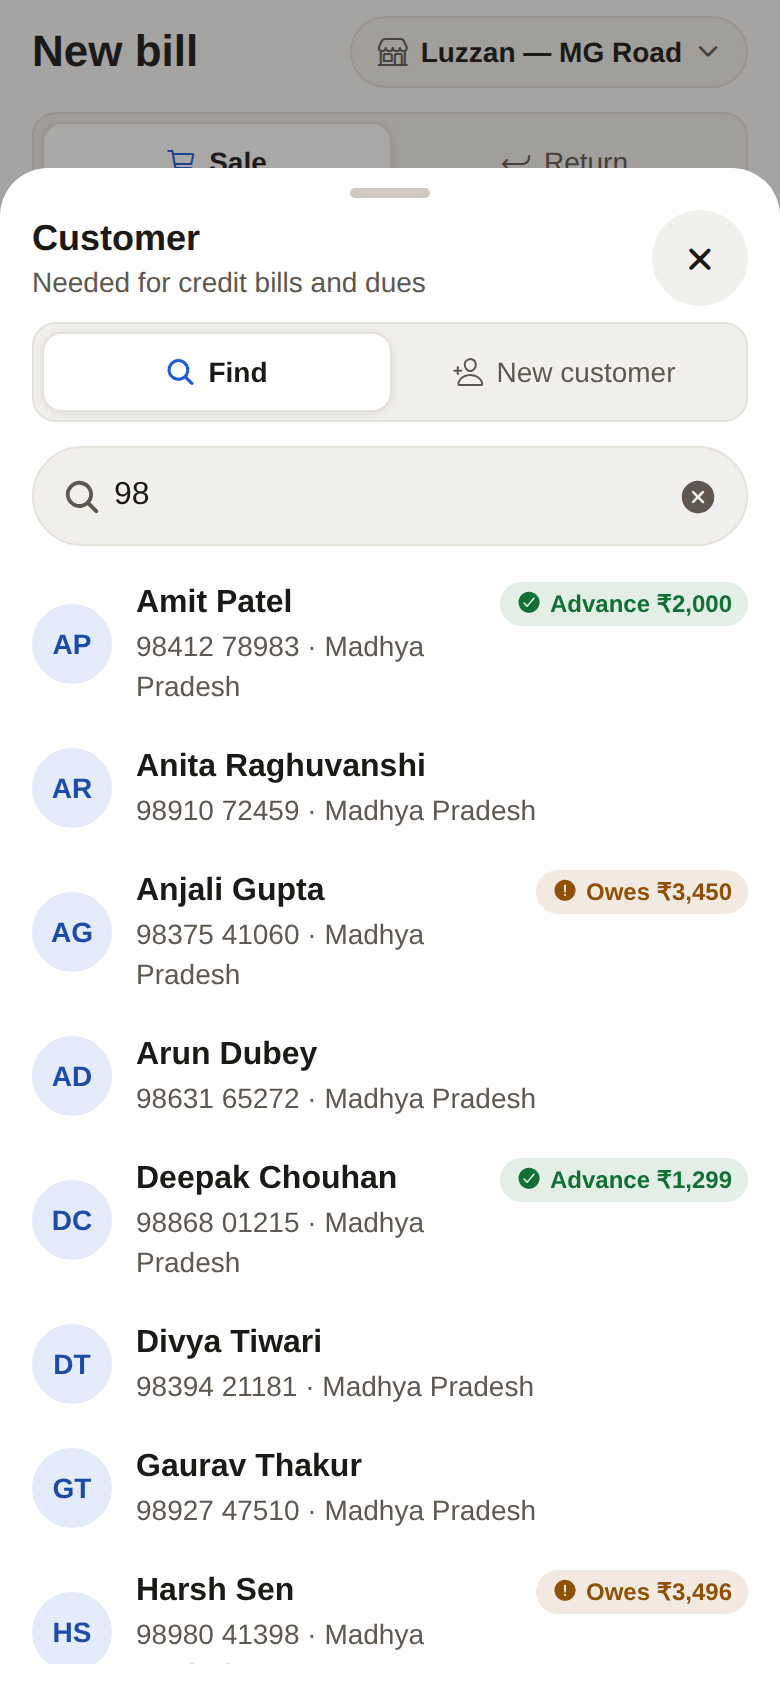
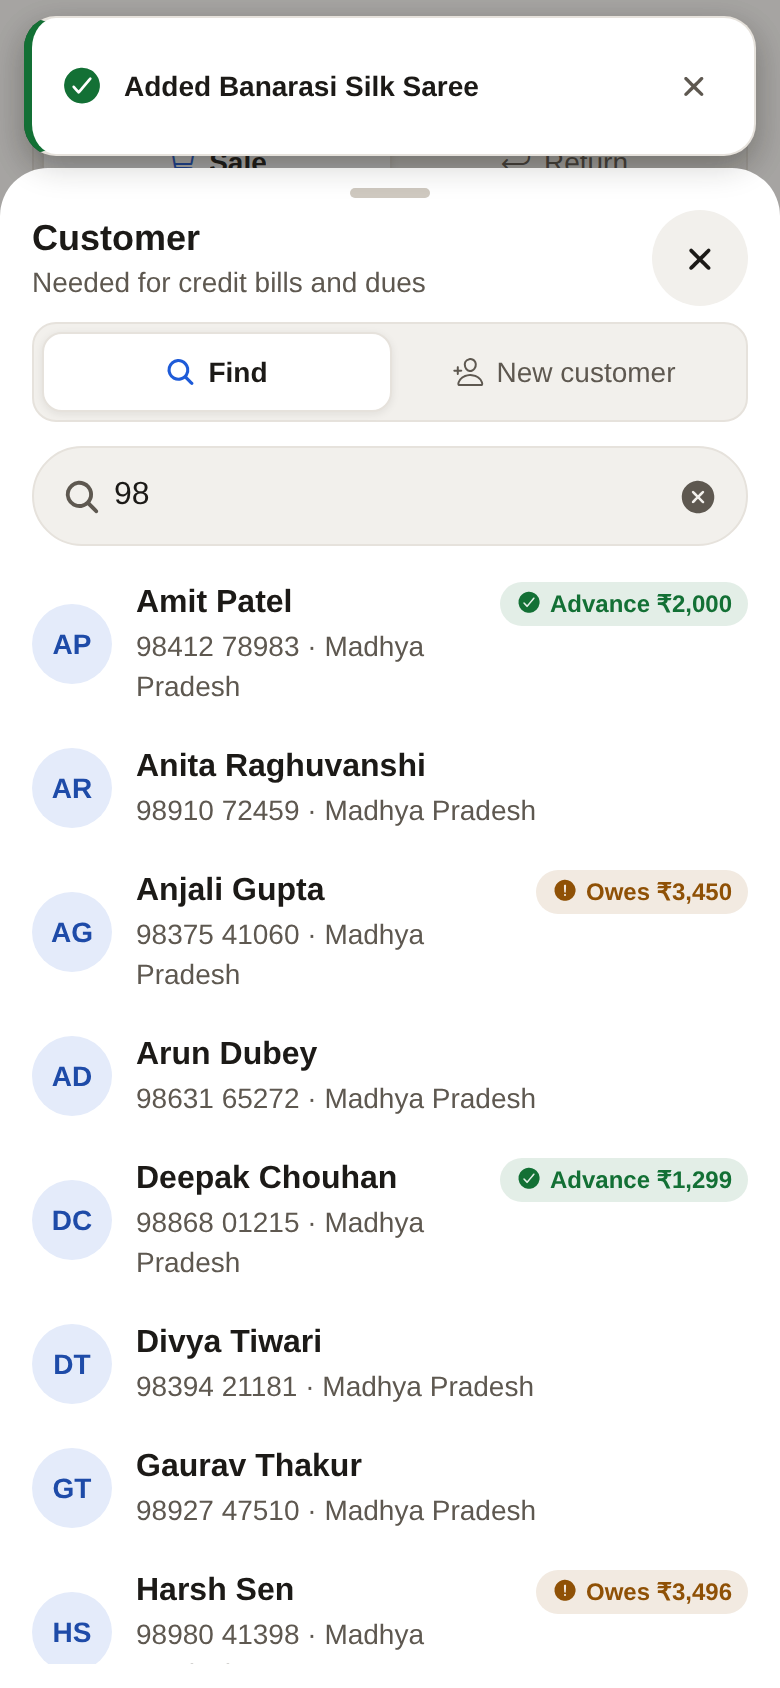
Fix review findings across purchase, labels, dues, customers, reports, staff and UI
- Purchase detail hides debit-note amounts from staff without cost access;
  supplier statement button is owner-only
- An empty purchase draft (or a new purchase's first item) is dated today,
  never the day the last purchase was saved
- Stock item 'Print label' now adds that item to the label list; view-only
  label users can browse history without hitting a permission error
- Customer mobile strips +91/0 when pasted; saved states like 'Orissa' are
  normalised so old customers stay editable; staff mobile can be cleared
- Report export follows the reports.export permission
- Payments refresh the Sell tab's customer balances and supplier dues;
  purchases refresh catalogue search and the phone's offline catalogue
- Select clears its search when closed
- Toasts show above bottom sheets, have their own close button, keep Undo
  reachable with screen readers (longer, announced) and no longer stack

Claude-Session: https://claude.ai/code/session_01AYVUEwMcs8xCmkBpRM1VsF

diff --git a/src/ui/Toast.tsx b/src/ui/Toast.tsx
@@ -1,4 +1,4 @@
-import { View } from "react-native";
+import { AccessibilityInfo, View } from "react-native";
 import Animated, { FadeInUp, FadeOutUp, LinearTransition } from "react-native-reanimated";
 import { useSafeAreaInsets } from "react-native-safe-area-context";
 import { create } from "zustand";
@@ -15,12 +15,23 @@ type ToastState = { items: ToastItem[]; show: (kind: ToastKind, message: string,
 
 let counter = 0;
 
+// With a screen reader on, toasts (and their Undo) stay long enough to reach.
+let screenReader = false;
+AccessibilityInfo.isScreenReaderEnabled()
+  .then((on) => (screenReader = on))
+  .catch(() => undefined);
+AccessibilityInfo.addEventListener("screenReaderChanged", (on) => (screenReader = on));
+
 export const useToasts = create<ToastState>((set) => ({
   items: [],
   show: (kind, message, action) => {
     const id = ++counter;
-    set((s) => ({ items: [...s.items.slice(-2), { id, kind, message, action }] }));
-    setTimeout(() => set((s) => ({ items: s.items.filter((t) => t.id !== id) })), action ? 6000 : 3200);
+    // A new plain toast replaces the previous one of the same kind (fast scanning shows one "Added…"),
+    // while toasts with an action (Undo) stay until they time out.
+    set((s) => ({ items: [...s.items.filter((t) => t.action || t.kind !== kind).slice(-1), { id, kind, message, action }] }));
+    if (screenReader) AccessibilityInfo.announceForAccessibility(message);
+    const ms = (action ? 6000 : 3200) * (screenReader ? 3 : 1);
+    setTimeout(() => set((s) => ({ items: s.items.filter((t) => t.id !== id) })), ms);
   },
   dismiss: (id) => set((s) => ({ items: s.items.filter((t) => t.id !== id) }))
 }));
@@ -60,11 +71,7 @@ export function ToastHost() {
           layout={theme.reduceMotion ? undefined : LinearTransition}
           style={{ width: "100%", maxWidth: 520 }}
         >
-          <PressableScale
-            onPress={() => dismiss(item.id)}
-            accessibilityRole="alert"
-            accessibilityLiveRegion="polite"
-            accessibilityLabel={item.message}
+          <View
             style={{
               flexDirection: "row",
               alignItems: "center",
@@ -85,7 +92,8 @@ export function ToastHost() {
             }}
           >
             <Icon name={icons[item.kind]} size={22} color={colors[item.kind]} />
-            <Text variant="small" weight="600" style={{ flex: 1 }}>
+            {/* The message is its own element, so a screen reader reaches the action and close buttons separately. */}
+            <Text variant="small" weight="600" style={{ flex: 1 }} accessibilityRole="alert" accessibilityLiveRegion="polite">
               {item.message}
             </Text>
             {item.action ? (
@@ -94,7 +102,7 @@ export function ToastHost() {
                   item.action?.onPress();
                   dismiss(item.id);
                 }}
-                style={{ paddingHorizontal: 10, minHeight: 36, justifyContent: "center" }}
+                style={{ paddingHorizontal: 10, minHeight: 44, justifyContent: "center" }}
                 accessibilityLabel={item.action.label}
               >
                 <Text variant="small" weight="800" color="accent">
@@ -102,7 +110,10 @@ export function ToastHost() {
                 </Text>
               </PressableScale>
             ) : null}
-          </PressableScale>
+            <PressableScale onPress={() => dismiss(item.id)} accessibilityLabel="Dismiss" hitSlop={8} style={{ minWidth: 32, minHeight: 44, alignItems: "center", justifyContent: "center" }}>
+              <Icon name="close" size={18} color="textMuted" />
+            </PressableScale>
+          </View>
         </Animated.View>
       ))}
     </View>

diff --git a/src/features/labels/LabelsScreen.tsx b/src/features/labels/LabelsScreen.tsx
@@ -1,7 +1,7 @@
 import { FlashList } from "@shopify/flash-list";
 import { useInfiniteQuery, useMutation, useQuery, useQueryClient } from "@tanstack/react-query";
 import { router } from "expo-router";
-import { useDeferredValue, useEffect, useState } from "react";
+import { useDeferredValue, useEffect, useRef, useState } from "react";
 import { Platform, RefreshControl, ScrollView, View } from "react-native";
 import Animated, { FadeIn, FadeInDown, FadeOut, LinearTransition } from "react-native-reanimated";
 import { useSafeAreaInsets } from "react-native-safe-area-context";
@@ -349,6 +349,10 @@ type JobRow = LabelJobsResponse["rows"][number];
 
 function HistoryTab() {
   const theme = useTheme();
+  const canPrint = can(
+    useSession((s) => s.me),
+    "barcode.print"
+  );
   const insets = useSafeAreaInsets();
   const [source, setSource] = useState<(typeof sources)[number]["key"]>("all");
   const jobs = useInfiniteQuery({
@@ -360,7 +364,8 @@ function HistoryTab() {
   const rows = jobs.data?.pages.flatMap((p) => p.rows) ?? [];
   const renderRow = ({ item }: { item: JobRow }) => (
     <PressableScale
-      onPress={() => router.push(`/labels/jobs/${item.id}`)}
+      onPress={canPrint ? () => router.push(`/labels/jobs/${item.id}`) : undefined}
+      accessibilityRole={canPrint ? "button" : "text"}
       scaleTo={0.985}
       accessibilityLabel={`${item.title}, ${formatRelative(item.at)}, ${item.labels} labels`}
       style={{
@@ -449,13 +454,34 @@ function useJobPreload(jobId: string | undefined) {
   return job;
 }
 
-export function LabelsScreen({ jobId }: { jobId?: string }) {
+/** Adds the item opened from a stock page ("Print label") to the print list once. */
+function useVariantPreload(variantId: string | undefined, barcode: string | undefined) {
+  const term = (barcode ?? "").trim();
+  const found = useQuery({ queryKey: labelKeys.search(term), queryFn: () => api.labels.search(term), enabled: !!variantId && term.length >= 2 });
+  const handled = useRef<string | null>(null);
+  useEffect(() => {
+    if (!variantId || handled.current === variantId || !found.data) return;
+    handled.current = variantId;
+    const item = found.data.items.find((i) => i.variantId === variantId);
+    if (!item) {
+      toast.warning("That item has no barcode to print yet.");
+      return;
+    }
+    const list = usePrintList.getState();
+    if (!list.lines.some((l) => l.item.variantId === variantId)) list.add(item);
+    toast.success(`Added ${item.name} to the print list`);
+  }, [variantId, found.data]);
+  return found;
+}
+
+export function LabelsScreen({ jobId, variantId, barcode }: { jobId?: string; variantId?: string; barcode?: string }) {
   const theme = useTheme();
   const insets = useSafeAreaInsets();
   const me = useSession((s) => s.me);
   const canPrint = can(me, "barcode.print");
   const [tab, setTab] = useState<"print" | "history">(canPrint ? "print" : "history");
   const job = useJobPreload(canPrint ? jobId : undefined);
+  useVariantPreload(canPrint ? variantId : undefined, barcode);
   return (
     <View style={{ flex: 1, backgroundColor: theme.colors.bg, paddingTop: insets.top }}>
       <Header back title="Barcode labels" subtitle={jobId && job.data ? `Loaded ${job.data.items.length} item${job.data.items.length === 1 ? "" : "s"} from a print job` : undefined} />

diff --git a/src/features/stock/ItemDetailScreen.tsx b/src/features/stock/ItemDetailScreen.tsx
@@ -204,7 +204,15 @@ export function ItemDetailScreen({ variantId }: { variantId: string }) {
             back
             title={d.name}
             subtitle={detailLine || undefined}
-            right={canPrint ? <IconButton icon="print-outline" label="Print barcode label" onPress={() => router.push(`/labels?variant=${d.variantId}` as Href)} /> : undefined}
+            right={
+              canPrint ? (
+                <IconButton
+                  icon="print-outline"
+                  label="Print barcode label"
+                  onPress={() => router.push(`/labels?variant=${d.variantId}&barcode=${encodeURIComponent(d.barcodes[0]?.barcode ?? "")}` as Href)}
+                />
+              ) : undefined
+            }
           />
         }
         onRefresh={() => void item.refetch()}
@@ -324,7 +332,14 @@ export function ItemDetailScreen({ variantId }: { variantId: string }) {
             <View style={{ flexDirection: "row", flexWrap: "wrap", gap: theme.space[2] }}>
               {canTransfer ? <ActionTile icon="swap-horizontal" label="Transfer" hint="Move pieces to another store" onPress={() => open("transfer")} /> : null}
               {canListing ? <ActionTile icon="globe-outline" label="Online listing" hint="What buyers see on WowCity" onPress={() => router.push(`/products/${d.productId}/listing`)} /> : null}
-              {canPrint ? <ActionTile icon="barcode-outline" label="Print label" hint="Barcode label for this item" onPress={() => router.push(`/labels?variant=${d.variantId}` as Href)} /> : null}
+              {canPrint ? (
+                <ActionTile
+                  icon="barcode-outline"
+                  label="Print label"
+                  hint="Barcode label for this item"
+                  onPress={() => router.push(`/labels?variant=${d.variantId}&barcode=${encodeURIComponent(d.barcodes[0]?.barcode ?? "")}` as Href)}
+                />
+              ) : null}
             </View>
           </Animated.View>
         ) : null}

diff --git a/src/__tests__/sell.test.ts b/src/__tests__/sell.test.ts
@@ -128,32 +128,30 @@ describe("receipts", () => {
 
 describe("returns", () => {
   it("previews the refund at what was actually paid per unit, not the list rate", () => {
-    useCart
-      .getState()
-      .startReturn(
-        { invoiceId: "inv", billNumber: "MG/1", date: "2026-09-01", total: 1079.1 },
-        null,
-        [
-          {
-            key: "k",
-            variantId: "v",
-            itemName: "Kurta",
-            detail: "",
-            barcode: "",
-            qty: 1,
-            mrp: 1299,
-            rate: 1199,
-            gstRate: 5,
-            discountPercent: 0,
-            discountAmount: 0,
-            availableQty: null,
-            originalItemId: "o",
-            maxQty: 1,
-            unitRefund: 1079.1
-          }
-        ],
-        "inclusive"
-      );
+    useCart.getState().startReturn(
+      { invoiceId: "inv", billNumber: "MG/1", date: "2026-09-01", total: 1079.1 },
+      null,
+      [
+        {
+          key: "k",
+          variantId: "v",
+          itemName: "Kurta",
+          detail: "",
+          barcode: "",
+          qty: 1,
+          mrp: 1299,
+          rate: 1199,
+          gstRate: 5,
+          discountPercent: 0,
+          discountAmount: 0,
+          availableQty: null,
+          originalItemId: "o",
+          maxQty: 1,
+          unitRefund: 1079.1
+        }
+      ],
+      "inclusive"
+    );
     const totals = computeTotals(useCart.getState(), "Madhya Pradesh", "nearest_rupee", true);
     expect(totals.net).toBe(1079.1);
     expect(totals.taxable + totals.gst).toBeCloseTo(1079.1, 2);

diff --git a/src/features/customers/form.ts b/src/features/customers/form.ts
@@ -12,7 +12,8 @@ export function formFromCustomer(c: CustomerDetailResponse["customer"]): Custome
     mobile: digits.length > 10 ? digits.slice(-10) : digits,
     address: c.address ?? "",
     city: c.city ?? "",
-    state: c.state ?? "",
+    // Saved states like "DELHI" or "Orissa" map to the list name, so old customers stay editable.
+    state: indianStates.find((s) => s.code === gstStateCode(c.state ?? ""))?.name ?? "",
     gstin: (c.gstin ?? "").toUpperCase()
   };
 }
@@ -28,6 +29,13 @@ export function validateCustomer(form: CustomerForm): CustomerFormErrors {
   if (gstin && !GSTIN_PATTERN.test(gstin)) errors.gstin = "That doesn't look like a GSTIN (15 characters, e.g. 23ABCDE1234F1Z5).";
   if (form.state && !indianStates.some((s) => s.name === form.state)) errors.state = "Choose a state from the list.";
   return errors;
+}
+
+/** Typed or pasted mobile: drop a +91 / 0 prefix, keep the last 10 digits. */
+export function cleanMobileInput(text: string) {
+  const digits = text.replace(/\D/g, "");
+  if (digits.length > 10 && (digits.startsWith("91") || digits.startsWith("0"))) return digits.slice(-10);
+  return digits.slice(0, 10);
 }
 
 /** GSTIN state differs from the chosen state: a gentle hint, not an error. */

diff --git a/src/features/customers/CustomerEditScreen.tsx b/src/features/customers/CustomerEditScreen.tsx
@@ -11,7 +11,7 @@ import { haptic } from "@/lib/haptics";
 import { indianStates } from "@/lib/india";
 import { useTheme } from "@/theme/ThemeProvider";
 import { Button, Card, confirm, EmptyState, ErrorState, Header, Icon, Input, Row, Screen, Select, Skeleton, Stack, Text, toast } from "@/ui";
-import { customerBody, formFromCustomer, gstinStateHint, sameForm, validateCustomer, type CustomerForm, type CustomerFormErrors } from "./form";
+import { cleanMobileInput, customerBody, formFromCustomer, gstinStateHint, sameForm, validateCustomer, type CustomerForm, type CustomerFormErrors } from "./form";
 
 const stateOptions = indianStates.map((s) => ({ value: s.name as string, label: s.name as string }));
 
@@ -101,7 +101,7 @@ function EditForm({ customer }: { customer: CustomerDetailResponse["customer"] }
             label="Mobile"
             prefix="+91"
             value={form.mobile}
-            onChangeText={(t) => set({ mobile: t.replace(/\D/g, "").slice(0, 10) })}
+            onChangeText={(t) => set({ mobile: cleanMobileInput(t) })}
             error={errors.mobile}
             keyboardType="phone-pad"
             textContentType="telephoneNumber"

diff --git a/src/features/purchase/queries.ts b/src/features/purchase/queries.ts
@@ -1,3 +1,5 @@
+import { useSession } from "@/auth/session";
+import { syncNow } from "@/offline/useQueue";
 import { useQuery, type QueryClient } from "@tanstack/react-query";
 import { api } from "@/api";
 
@@ -20,7 +22,9 @@ export function useSuppliers(q: string) {
 
 /** After a purchase, stock, labels, dues and the dashboard all change. */
 export function invalidateAfterPurchase(qc: QueryClient) {
-  for (const area of ["purchases", "stock", "labels", "dues", "dashboard", "reports", "products"]) void qc.invalidateQueries({ queryKey: [area] });
+  for (const area of ["purchases", "stock", "labels", "dues", "dashboard", "reports", "products", "catalog-search"]) void qc.invalidateQueries({ queryKey: [area] });
+  // New items and prices should scan at the counter straight away, not after the next timed sync.
+  void syncNow(useSession.getState().storeId, { customers: false });
 }
 
 export const payModes = [

diff --git a/src/features/purchase/PurchaseDetailScreen.tsx b/src/features/purchase/PurchaseDetailScreen.tsx
@@ -163,7 +163,7 @@ export function PurchaseDetailScreen({ id }: { id: string }) {
               </Text>
             </View>
           </Row>
-          {can(me, "reports.due") ? <Button label="Supplier statement" icon="document-text-outline" variant="soft" onPress={() => router.push(`/dues/supplier/${data.supplier!.id}`)} /> : null}
+          {isOwner(me) ? <Button label="Supplier statement" icon="document-text-outline" variant="soft" onPress={() => router.push(`/dues/supplier/${data.supplier!.id}`)} /> : null}
         </Card>
       ) : (
         <Card>
@@ -256,7 +256,7 @@ export function PurchaseDetailScreen({ id }: { id: string }) {
                     </Text>
                   </View>
                   <Text variant="bodyStrong" tabular>
-                    {m(r.amount)}
+                    {t ? m(r.amount) : "—"}
                   </Text>
                 </Row>
               </View>

diff --git a/src/__tests__/location.test.ts b/src/__tests__/location.test.ts
@@ -27,3 +27,18 @@ describe("store location", () => {
     expect(addressFromGeocode(null)).toBeNull();
   });
 });
+
+import { cleanMobileInput, formFromCustomer } from "@/features/customers/form";
+
+describe("customer form", () => {
+  it("strips +91 / 0 from pasted numbers instead of cutting the last digits", () => {
+    expect(cleanMobileInput("+91 98765 43210")).toBe("9876543210");
+    expect(cleanMobileInput("09876543210")).toBe("9876543210");
+    expect(cleanMobileInput("98765")).toBe("98765");
+  });
+
+  it("normalises a saved state so old customers stay editable", () => {
+    const form = formFromCustomer({ id: "c", name: "A", mobile: null, address: null, city: null, state: "Orissa", gstin: null, created_at: "" });
+    expect(form.state).toBe("Odisha");
+  });
+});

diff --git a/src/features/purchase/draft.ts b/src/features/purchase/draft.ts
@@ -177,7 +177,9 @@ export const usePurchaseDraft = create<PurchaseDraft & Actions>()(
           const items = [...s.items];
           if (index >= 0) items.splice(index + 1, 0, item);
           else items.push(item);
-          return { items, updatedAt: Date.now() };
+          // First item of a new purchase: date it today (the empty draft may be from yesterday).
+          const startingFresh = !draftHasContent(s);
+          return { items, updatedAt: Date.now(), ...(startingFresh ? { date: isoDay() } : {}) };
         }),
       updateItem: (key, patch) => set((s) => ({ items: s.items.map((i) => (i.key === key ? { ...i, ...patch } : i)), updatedAt: Date.now() })),
       removeItem: (key) => {

diff --git a/src/ui/Sheet.tsx b/src/ui/Sheet.tsx
@@ -6,6 +6,7 @@ import { useSafeAreaInsets } from "react-native-safe-area-context";
 import { useTheme } from "@/theme/ThemeProvider";
 import { IconButton } from "./Button";
 import { Text } from "./Text";
+import { ToastHost } from "./Toast";
 
 export type SheetProps = {
   visible: boolean;
@@ -126,6 +127,7 @@ export function Sheet({ visible, onClose, title, subtitle, children, footer, max
             {footer ? <View style={{ paddingHorizontal: theme.space[4], paddingTop: theme.space[2], gap: theme.space[2] }}>{footer}</View> : null}
           </Animated.View>
         </KeyboardAvoidingView>
+        <ToastHost />
       </GestureHandlerRootView>
     </Modal>
   );

diff --git a/src/ui/Select.tsx b/src/ui/Select.tsx
@@ -76,7 +76,14 @@ export function Select<V extends string>({
           {error}
         </Text>
       ) : null}
-      <Sheet visible={open} onClose={() => setOpen(false)} title={sheetTitle ?? label ?? "Choose"}>
+      <Sheet
+        visible={open}
+        onClose={() => {
+          setOpen(false);
+          setQ("");
+        }}
+        title={sheetTitle ?? label ?? "Choose"}
+      >
         {searchable || options.length > 12 || allowCustom ? <SearchBar value={q} onChangeText={setQ} placeholder="Search" /> : null}
         {allowCustom && q.trim() && !options.some((o) => o.label.toLowerCase() === q.trim().toLowerCase()) ? (
           <ListRow
